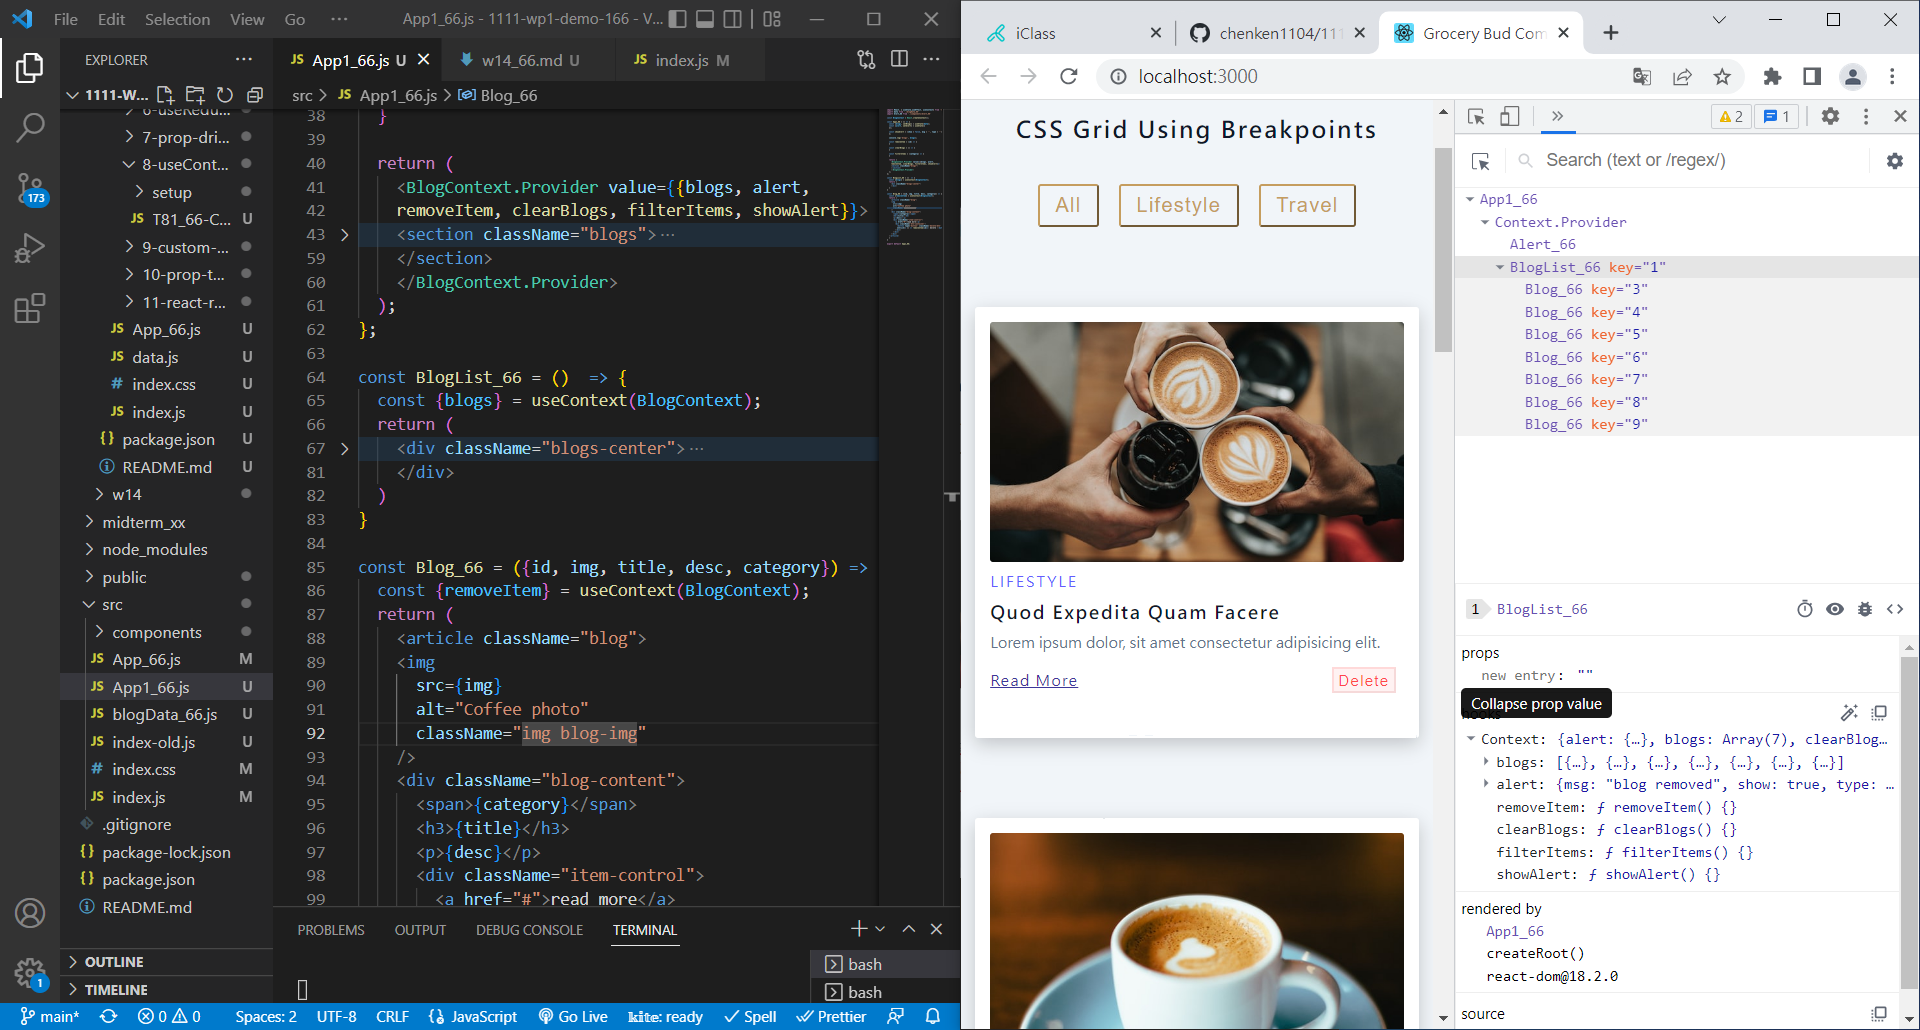
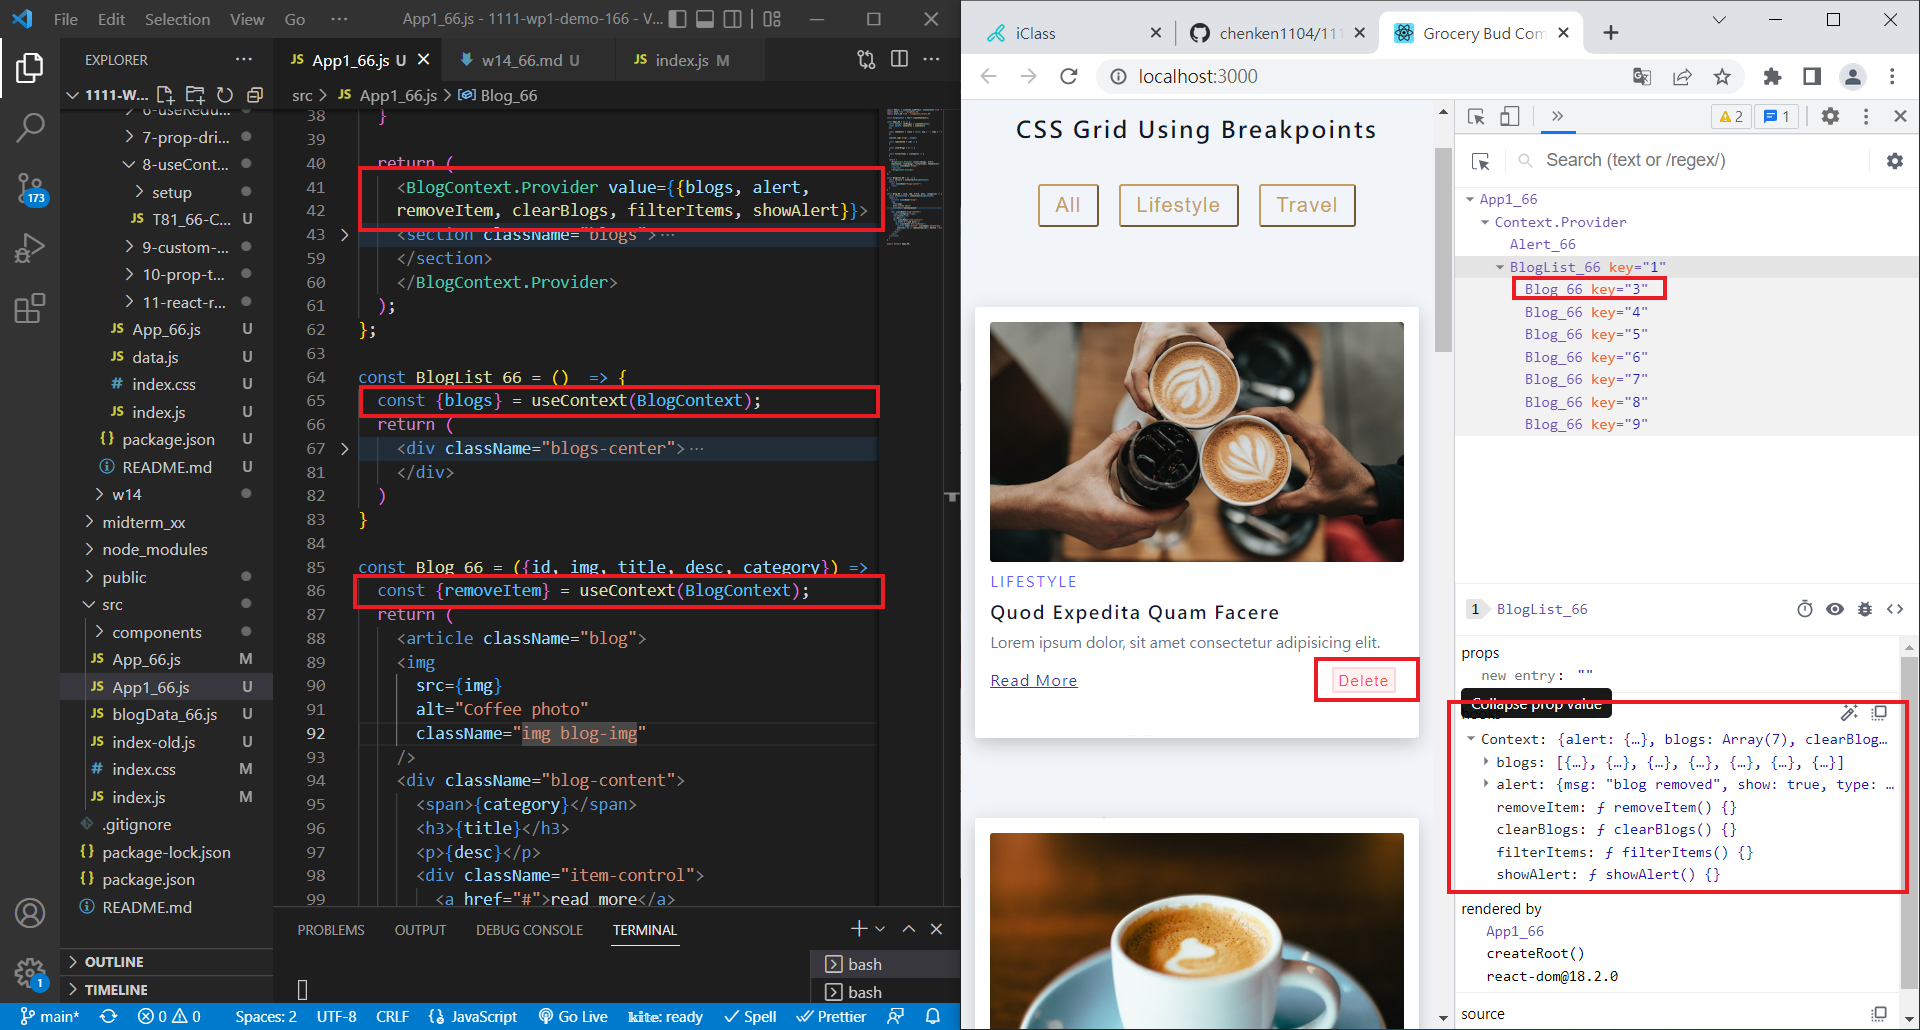
W14-P1: App1_66 contains BlogList_66, Blog_66 functional components

diff --git a/src/App_66.js b/src/App_66.js
@@ -1,7 +1,9 @@
-import React, { useState, useEffect } from 'react';
-import data from './blogData_66';
+import React, { useState, useEffect, useContext} from 'react';
+import data from './blogData_66'
+import Alert_66 from './components/Alert_66'
 import BlogList_66 from './components/BlogList_66';
-import Alert_66 from './components/Alert_66';
+
+const BlogContext = React.createContext();
 
 const App_66 = () => {
   const [blogs, setBlogs] = useState(data);
@@ -37,7 +39,8 @@ const App_66 = () => {
   }
 
   return (
-    <>
+    <BlogContext.Provider value={{blogs, alert,
+    removeItem, clearBlogs, filterItems, showAlert}}>
     <section className="blogs">
     {alert.show && <Alert_66 {...alert} removeAlert={showAlert} />}
       <div className="section-title">
@@ -49,14 +52,18 @@ const App_66 = () => {
         <button type="button" className="filter-btn" onClick={() => filterItems('travel')}>travel</button>
       </div>
       <div className="blogs-center">
-        <BlogList_66 key={1} blogs={blogs} removeItem={removeItem}/>
+        <BlogList_66 key={1}/>
       </div>
       <button className='clear-btn' onClick={clearBlogs}>
         clear all blogs
       </button>
     </section>
-    </>
+    </BlogContext.Provider>
   );
 };
 
-export default App_66;
+const useBlogContext = () => {
+  return useContext(BlogContext);
+}
+
+export { App_66, useBlogContext };

diff --git a/src/components/BlogList_66.js b/src/components/BlogList_66.js
@@ -1,13 +1,15 @@
 import React from 'react'
 import Blog_66 from './Blog_66';
+import { useBlogContext } from '../App_66'
 
-const BlogList_66 = ({blogs, removeItem})  => {
+const BlogList_66 = ()  => {
+  const {blogs} = useBlogContext();
   return (
     <div className="blogs-center">
         { blogs.map( (blog) => {
            const {id, img, title, desc, category} = blog;
            return (
-            <Blog_66 key={id} id={id} img={img} title={title} desc={desc} category={category} removeItem={removeItem}/>
+            <Blog_66 key={id} id={id} img={img} title={title} desc={desc} category={category}/>
            )
         }) }
       </div>

diff --git a/src/App1_66.js b/src/App1_66.js
@@ -1,4 +1,4 @@
-import React, { useState,useEffect, useContext} from 'react';
+import React, { useState, useEffect, useContext} from 'react';
 import data from './blogData_66'
 import Alert_66 from './components/Alert_66'
 
@@ -106,5 +106,6 @@ const Blog_66 = ({id, img, title, desc, category}) => {
   </article>
   )
 }
+
 
 export default App1_66;

diff --git a/src/index.js b/src/index.js
@@ -1,11 +1,11 @@
 import React from 'react';
 import ReactDOM from 'react-dom/client';
 import './index.css';
-import App1_66 from './App1_66';
+import {App_66} from './App_66';
 
 const root = ReactDOM.createRoot(document.getElementById('root'));
 root.render(
   <React.StrictMode>
-    <App1_66 />
+    <App_66 />
   </React.StrictMode>
 );

diff --git a/src/components/Blog_66.js b/src/components/Blog_66.js
@@ -1,6 +1,8 @@
 import React from 'react'
+import { useBlogContext } from '../App_66'
 
-const Blog_66 = ({id, img, title, desc, category, removeItem}) => {
+const Blog_66 = ({id, img, title, desc, category}) => {
+  const {removeItem} = useBlogContext();
   return (
     <article className="blog">
     <img

diff --git a/demo/md/w14/w14_66.md b/demo/md/w14/w14_66.md
@@ -1,3 +1,9 @@
-### W14-P1: App1_xx contains BlogList_xx, Blog_xx functional components
+### W14-P1: App1_66 contains BlogList_66, Blog_66 functional components
 
 ![](w14-p1.png)
+
+### W14-P2: App_66, BlogList_66, Blog_66 as separate components
+
+
+
+![](w14-p2.png)
